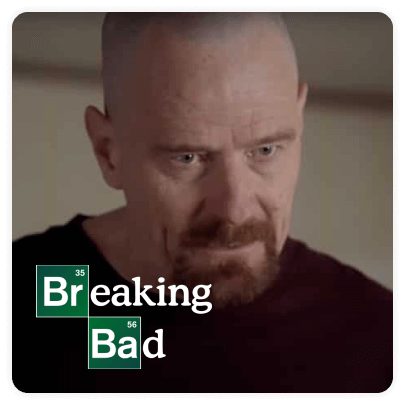
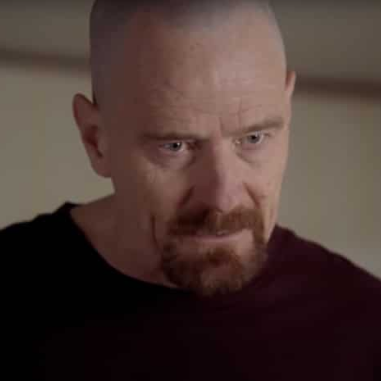
fix after CR

diff --git a/index.html b/index.html
@@ -13,7 +13,10 @@
 <body>
   <div id="home-page">
     <div class="show-preview-card">
-      <img class="show-preview-card__cover" src="/assets/images/BBCover.png" alt="Breaking Bad Cover">
+      <div class="show-preview-card__cover-container">
+        <img class="show-preview-card__logo" src="./assets/images/BBLogo.png" alt="Breaking Bad Logo">
+        <img class="show-preview-card__cover" src="./assets/images/BBCover.png" alt="Breaking Bad Cover">
+      </div>
       <div class="show-preview-card__content">
         <h2 class="show-preview-card__title">S4:06 Cornered</h2>
         <div class="show-preview-card__name-and-time">
@@ -21,12 +24,12 @@
             Breaking Bad
           </p>
           <div class="show-preview-card__time-container">
-            <img class="show-preview-card__time-icon" src="/assets//icons/clock.svg" alt="Clock Icon">
+            <img class="show-preview-card__time-icon" src="./assets//icons/clock.svg" alt="Clock Icon">
             <p class="show-preview-card__time">58 min</p>
           </div>
         </div>
         <div class="show-preview-card__info">
-          <img class="show-preview-card__info-avatar" src="assets/images/BBAvatar.png" alt="Breaking Bad Avatar">
+          <img class="show-preview-card__info-avatar" src="./assets/images/BBAvatar.png" alt="Breaking Bad Avatar">
           <p class="show-preview-card__info-text">2008</p>
           <p class="show-preview-card__info-dot-spacing">•</p>
           <p class="show-preview-card__info-text">5 seasons, 62 episodes</p>
@@ -35,8 +38,8 @@
     </div>
   </div>
 
-  <script type="module" src="/src/global-scripts/main.js"></script>
-  <script type="module" src="/src/pages/home-page/scripts/home-page.js"></script>
+  <script type="module" src="./src/global-scripts/main.js"></script>
+  <script type="module" src="./src/pages/home-page/scripts/home-page.js"></script>
 </body>
 
 </html>

diff --git a/src/pages/home-page/styles/preview-card.scss b/src/pages/home-page/styles/preview-card.scss
@@ -7,14 +7,28 @@
   width: 413px;
   background-color: var(--color-primary-500);
 
+  &__cover-container {
+    position: relative;
+    width: 381px;
+    height: 381px;
+    margin-top: 16px;
+  }
+  &__logo {
+    position: absolute;
+    bottom: 24px;
+    left: 24px;
+  }
   &__cover {
-    margin-top: 4px;
+    @include rounding16;
+    object-fit: cover;
+    width: 100%;
+    height: 100%;
   }
   &__content {
     @include flex(center, flex-start, column);
     width: 100%;
     padding: 0 32px;
-    margin-top: 10px;
+    margin-top: 24px;
   }
   &__name-and-time {
     @include flex(space-between, center, row);
@@ -31,29 +45,60 @@
   &__info {
     @include flex(flex-start, center, row);
     width: 100%;
-    gap: 8px;
-    margin: 32px 0 0 0;
+    margin: 30px 0 0 0;
   }
   &__info-avatar {
-    margin-right: 8px;
+    margin-right: 16px;
+  }
+  &__info-dot-spacing {
+    margin: -5px 8px 0 12px;
+    font-size: 24px;
   }
 
-  @media (max-width: 550px) {
+  @media (max-width: 840px) {
+    &__time-container {
+      margin-right: -7px;
+    }
+  }
+
+  @media (max-width: 500px) {
     height: 537px;
     width: 343px;
+    &__cover-container {
+      width: 311px;
+      height: 311px;
+    }
+    &__logo {
+      width: 136px;
+      height: 80px;
+      left: 16px;
+      bottom: 16px;
+    }
+
     &__content {
       padding: 0 16px;
-      margin-top: 15px;
     }
-    &__cover {
-      width: 329px;
-      height: 332px;
-    }
+
     &__name-and-time {
       padding: 10px 0 32px 0;
     }
+
+    &__time-container {
+      margin-right: 0;
+    }
     &__info {
       margin: 24px 0 0 0;
+    }
+    &__info-dot-spacing {
+      margin: -5px 6px 0 8px;
+      font-size: 24px;
+    }
+  }
+
+  @media (max-width: 360px) {
+    width: calc(100% - 32px);
+    &__cover-container {
+      width: calc(100% - 32px);
     }
   }
 }

diff --git a/src/global-styles/style.scss b/src/global-styles/style.scss
@@ -21,3 +21,9 @@ p {
   @include font-regural;
   margin: 0;
 }
+
+@media (max-width: 350px) {
+  p {
+    font-size: 12px ;
+  }
+}
